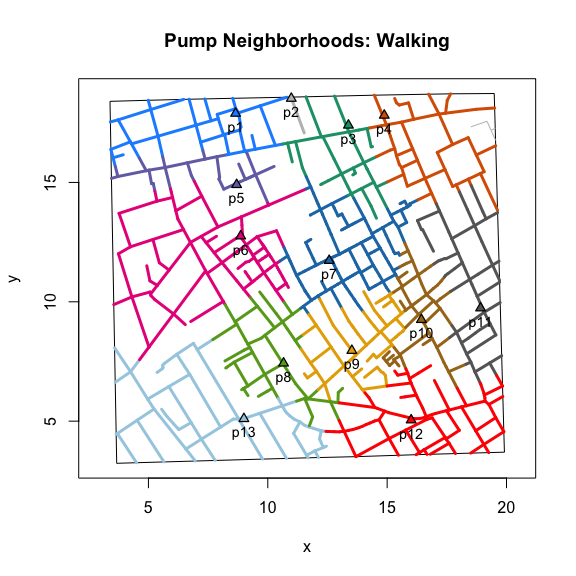
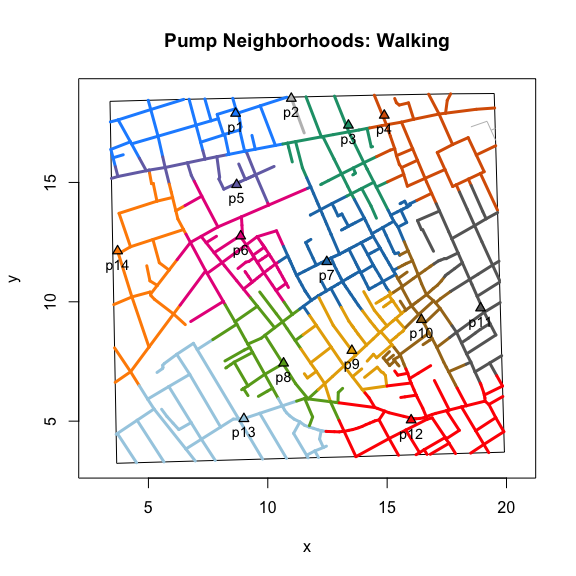
update documentation

diff --git a/README.md b/README.md
@@ -1,7 +1,7 @@
 
 <!-- README.md is generated from README.Rmd. Please edit that file -->
 [![CRAN\_Status\_Badge](http://www.r-pkg.org/badges/version/cholera)](https://cran.r-project.org/package=cholera)
-[![GitHub\_Status\_Badge](https://img.shields.io/badge/GitHub-0.3.9.9002-red.svg)](https://github.com/lindbrook/cholera/blob/master/NEWS)
+[![GitHub\_Status\_Badge](https://img.shields.io/badge/GitHub-0.3.9.9003-red.svg)](https://github.com/lindbrook/cholera/blob/master/NEWS)
 ### cholera: amend, augment and aid analysis of John Snow's 1854 cholera data
 
 John Snow's map of the 1854 cholera outbreak in London is one of the best known examples of data visualization and information design.
@@ -53,7 +53,7 @@ You can also explore "expected" neighborhoods.
 You can color roads by neighborhood.
 
 ``` r
-plot(neighborhoodWalking(case.set = "expected"))
+plot(neighborhoodWalking(case.set = "expected", vestry = TRUE))
 ```
 
 ![](man/figures/README-expected-1.png)
@@ -61,7 +61,7 @@ plot(neighborhoodWalking(case.set = "expected"))
 Or you can color "expected" areas:
 
 ``` r
-plot(neighborhoodWalking(case.set = "expected"), type = "area")
+plot(neighborhoodWalking(case.set = "expected", vestry = TRUE), type = "area")
 ```
 
 ![](man/figures/README-expected_area-1.png)
